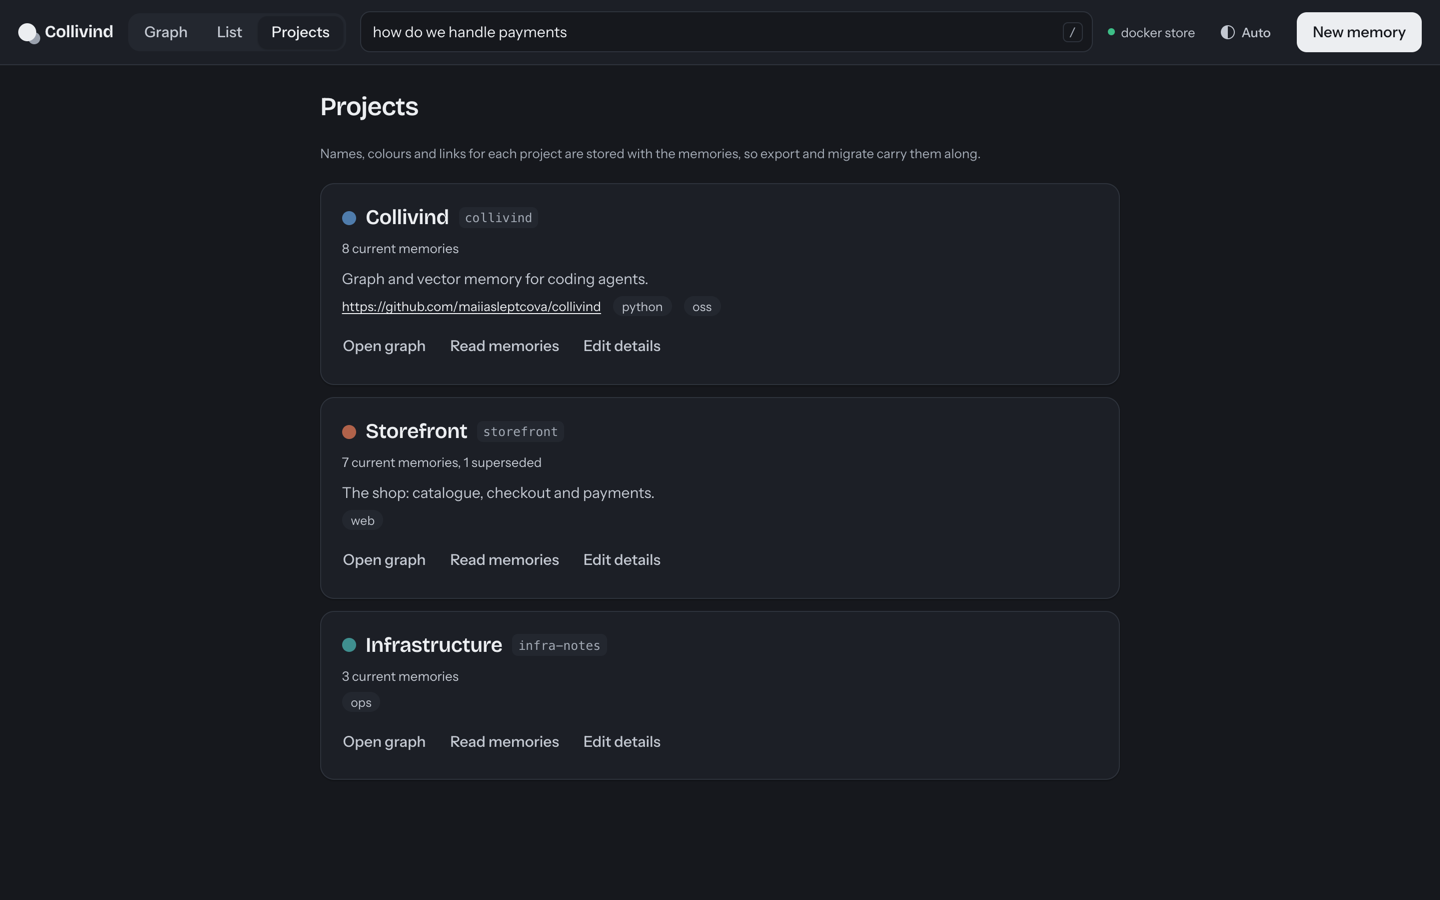
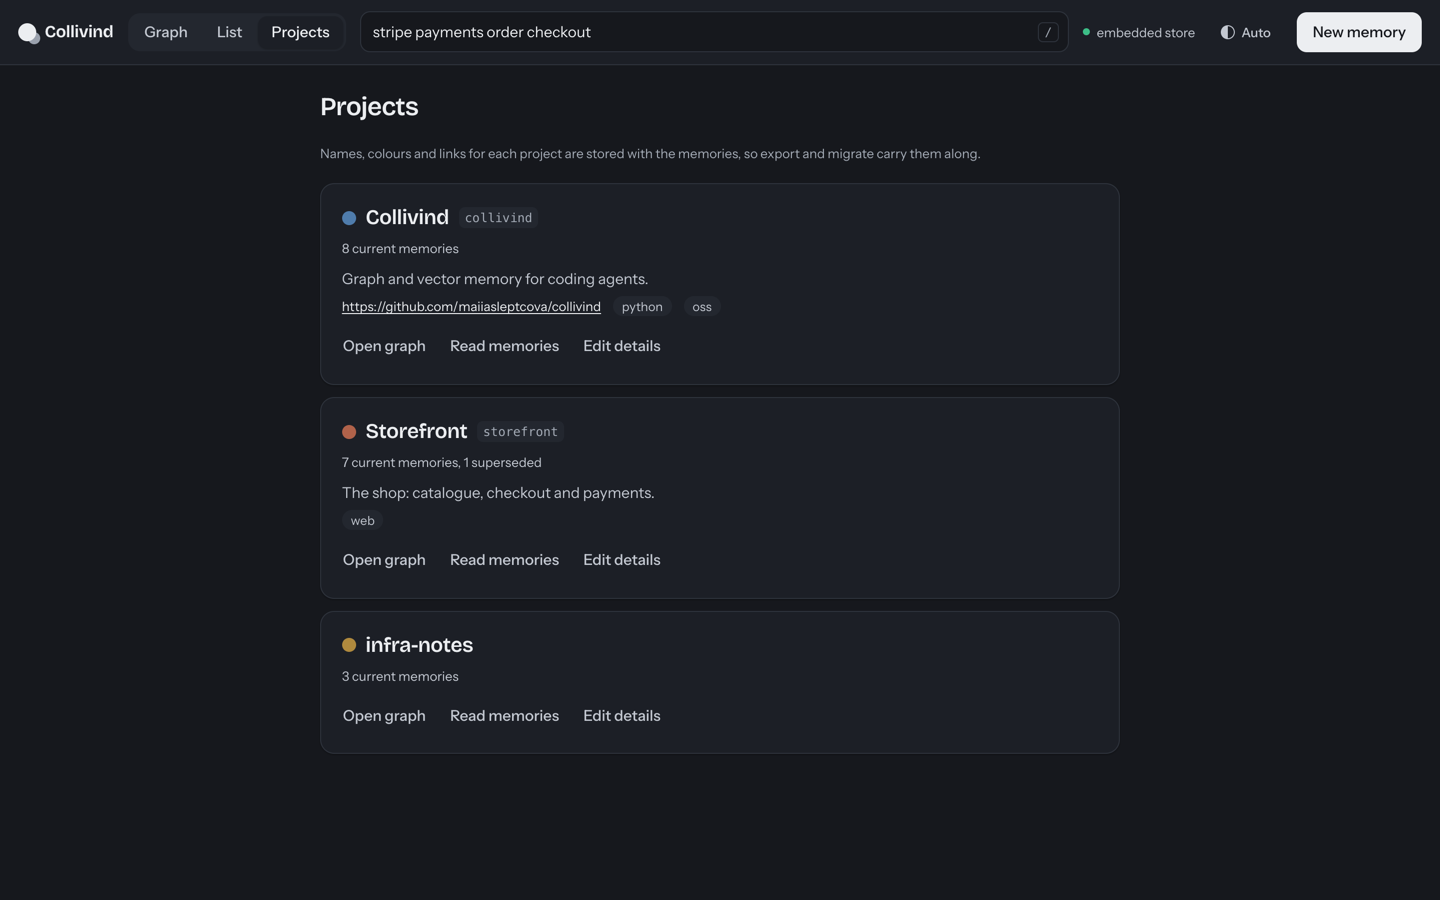
fix(web): reset restores every entity type; retake screenshots from a clean demo store

diff --git a/src/collivind/web/static/app.js b/src/collivind/web/static/app.js
@@ -346,7 +346,7 @@ function wireControls() {
   $("#f-depth").onchange = (e) => { state.depth = Number(e.target.value) || 1; if (state.local) applyFilters(); };
   $("#f-reset").onclick = () => {
     state.filters = { ...state.filters, project: "", categories: new Set(CATEGORIES), from: "", to: "", hideSuperseded: false, showEntities: true,
-      entityTypes: new Set(state.graph.nodes.filter((n) => n.kind === "entity").map((n) => n.type)) };
+      entityTypes: new Set(state.knownTypes) }; // every type seen, not just the current project's
     $("#f-project").value = ""; $("#f-from").value = ""; $("#f-to").value = ""; $("#f-superseded").checked = false; $("#f-entities").checked = true;
     $("#f-entity-types").hidden = false;
     renderCategories(); loadGraph();

diff --git a/site/index.html b/site/index.html
@@ -174,7 +174,7 @@ collivind init</pre>
       <figure>
         <img class="frame" src="assets/explorer-graph.jpg" width="1200" height="750" loading="lazy" decoding="async"
           alt="The Collivind explorer: a graph of memories coloured by project, linked to the services, files and ideas they mention, with filters for project, category, entity type and date in a sidebar.">
-        <figcaption class="caption">Screenshot of the graph view, reading a docker store with demo data.</figcaption>
+        <figcaption class="caption">Screenshot of the graph view, with demo data.</figcaption>
       </figure>
     </div>
   </section>
